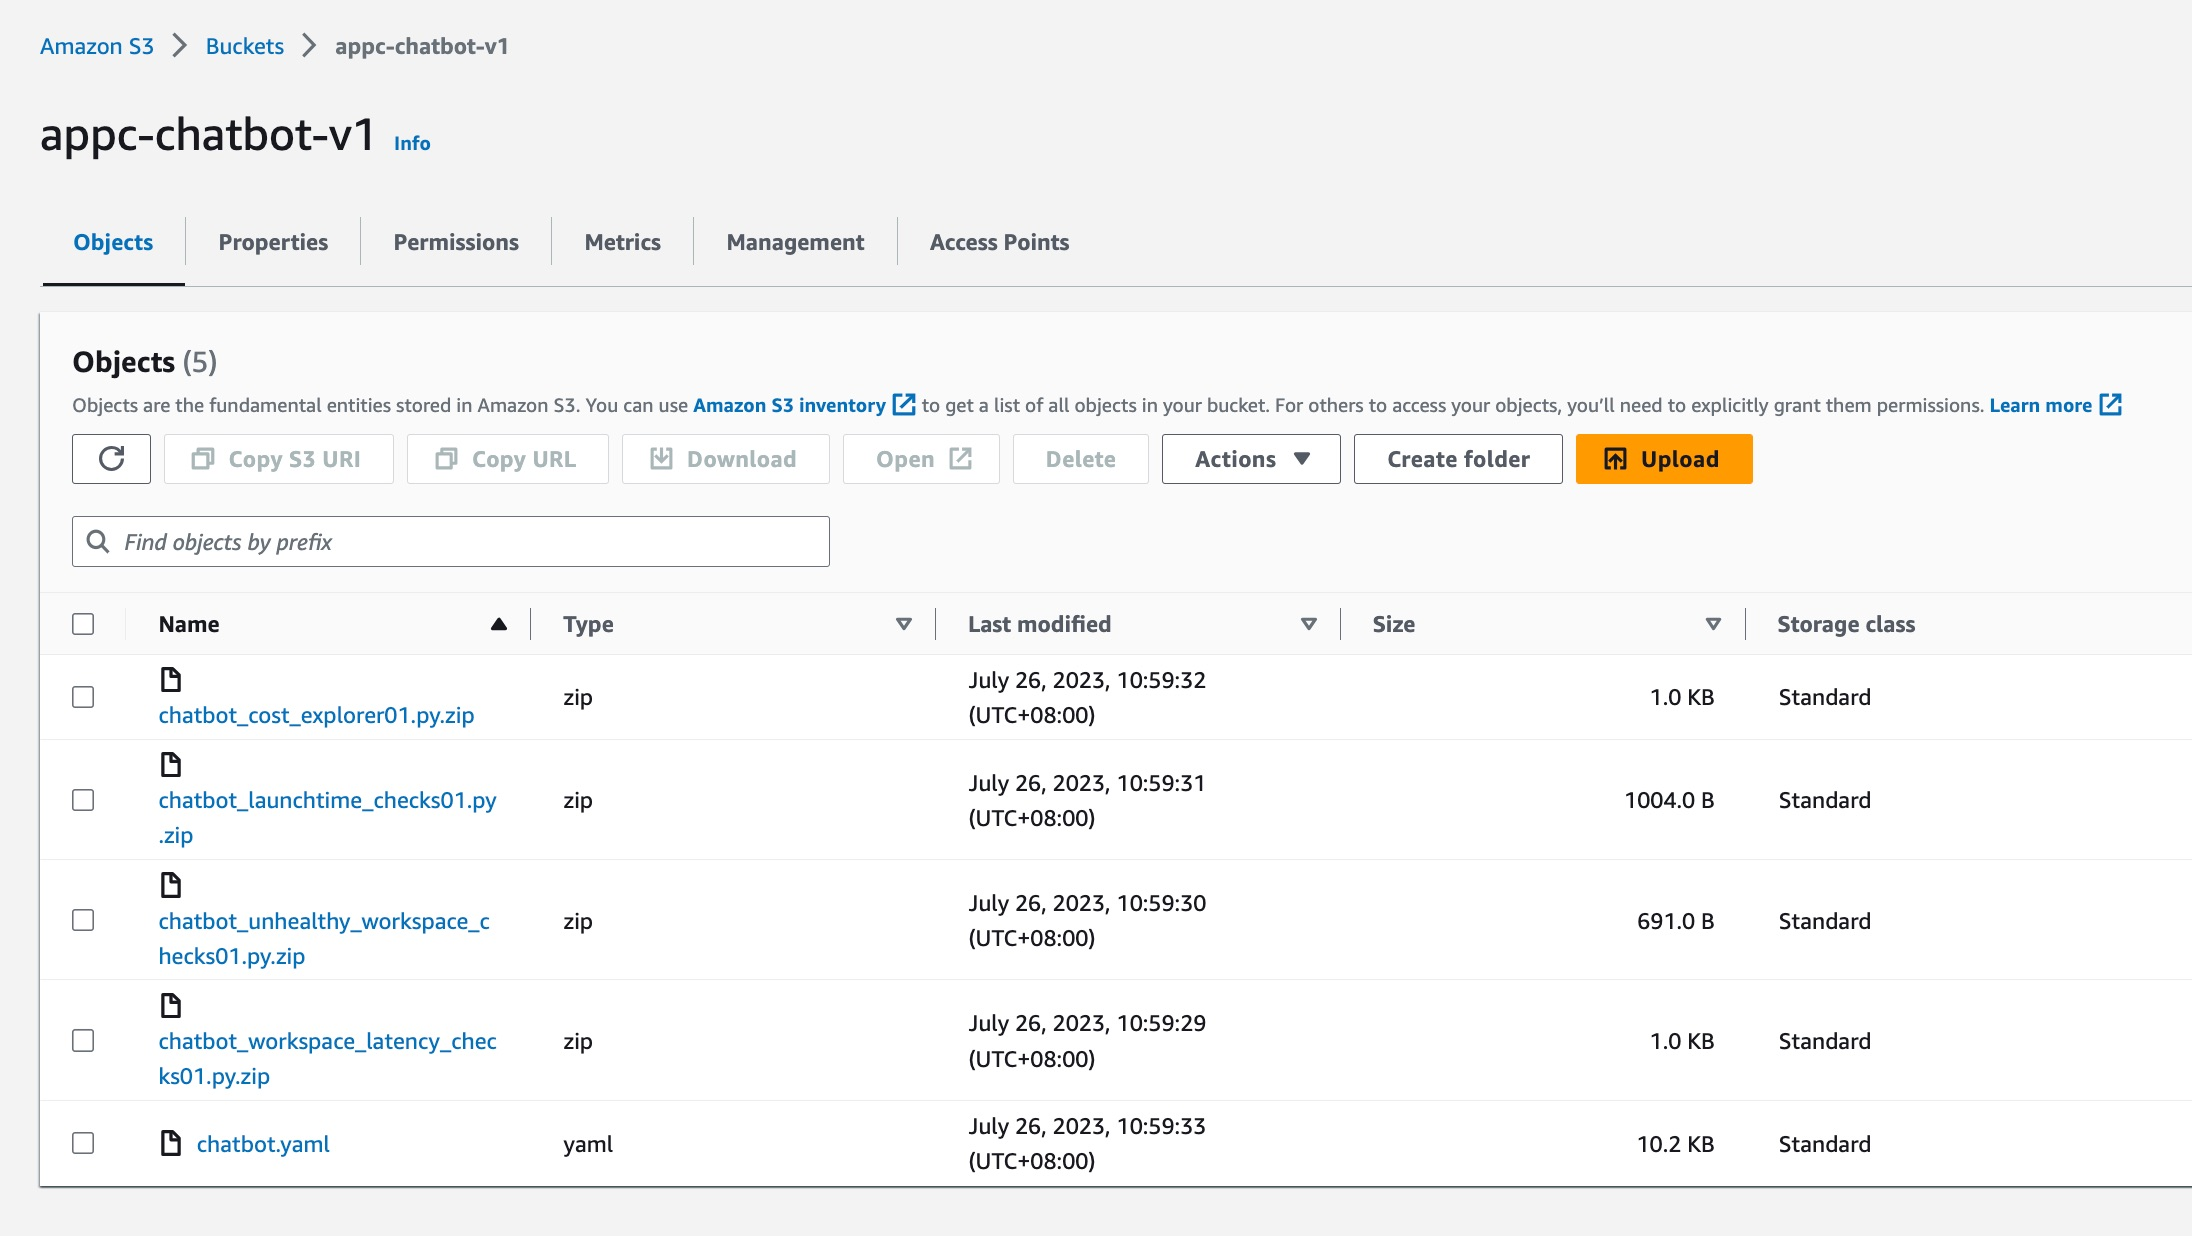
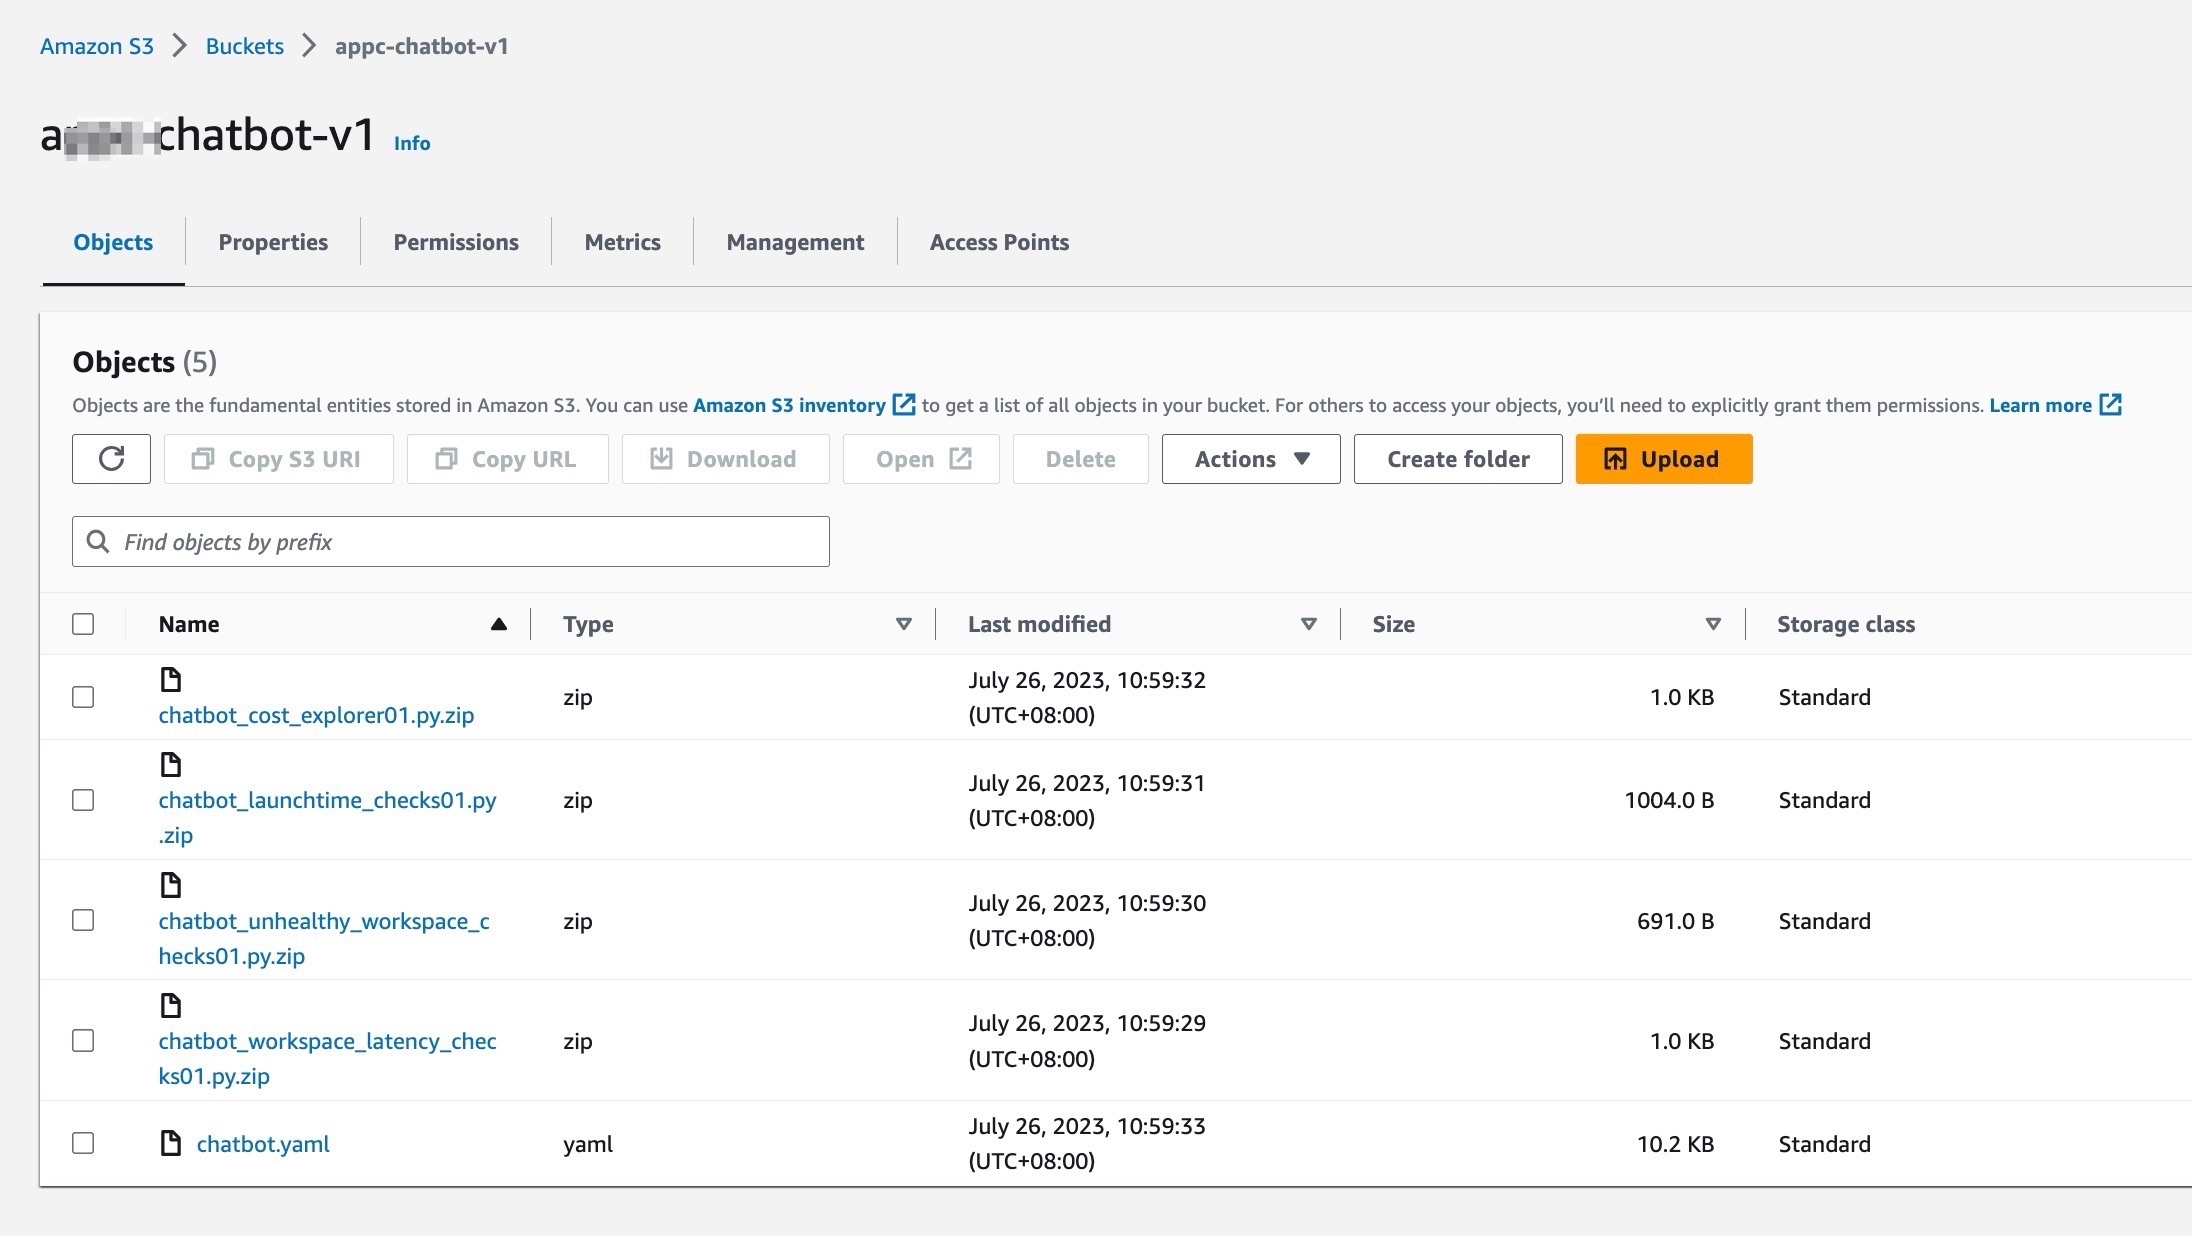
changed the README to fix hyperlink, obfuscated s3 bucketname in the screenshot in s3bucket.jpg

diff --git a/README.md b/README.md
@@ -1,6 +1,6 @@
 Monitor and automate AWS End User Computing(EUC) with AWS Chatbot
 --------------------------------------
-This serves as README for the blogpost [Monitor and automate Amazon EUC with AWS Chatbot](https://amazon.awsapps.com/workdocs/index.html#/document/4dbd3e580cefb02d50341ce3bb6944c75b636c8d391e2ba614750a681d91fa7f) on the AWS Desktop and Application Streaming channel.
+This serves as README for the blogpost **Monitor and automate Amazon EUC with AWS Chatbot** on the AWS Desktop and Application Streaming channel.
 
 ![Architecture diagram](/images/architecture.png "Architecture")
 
